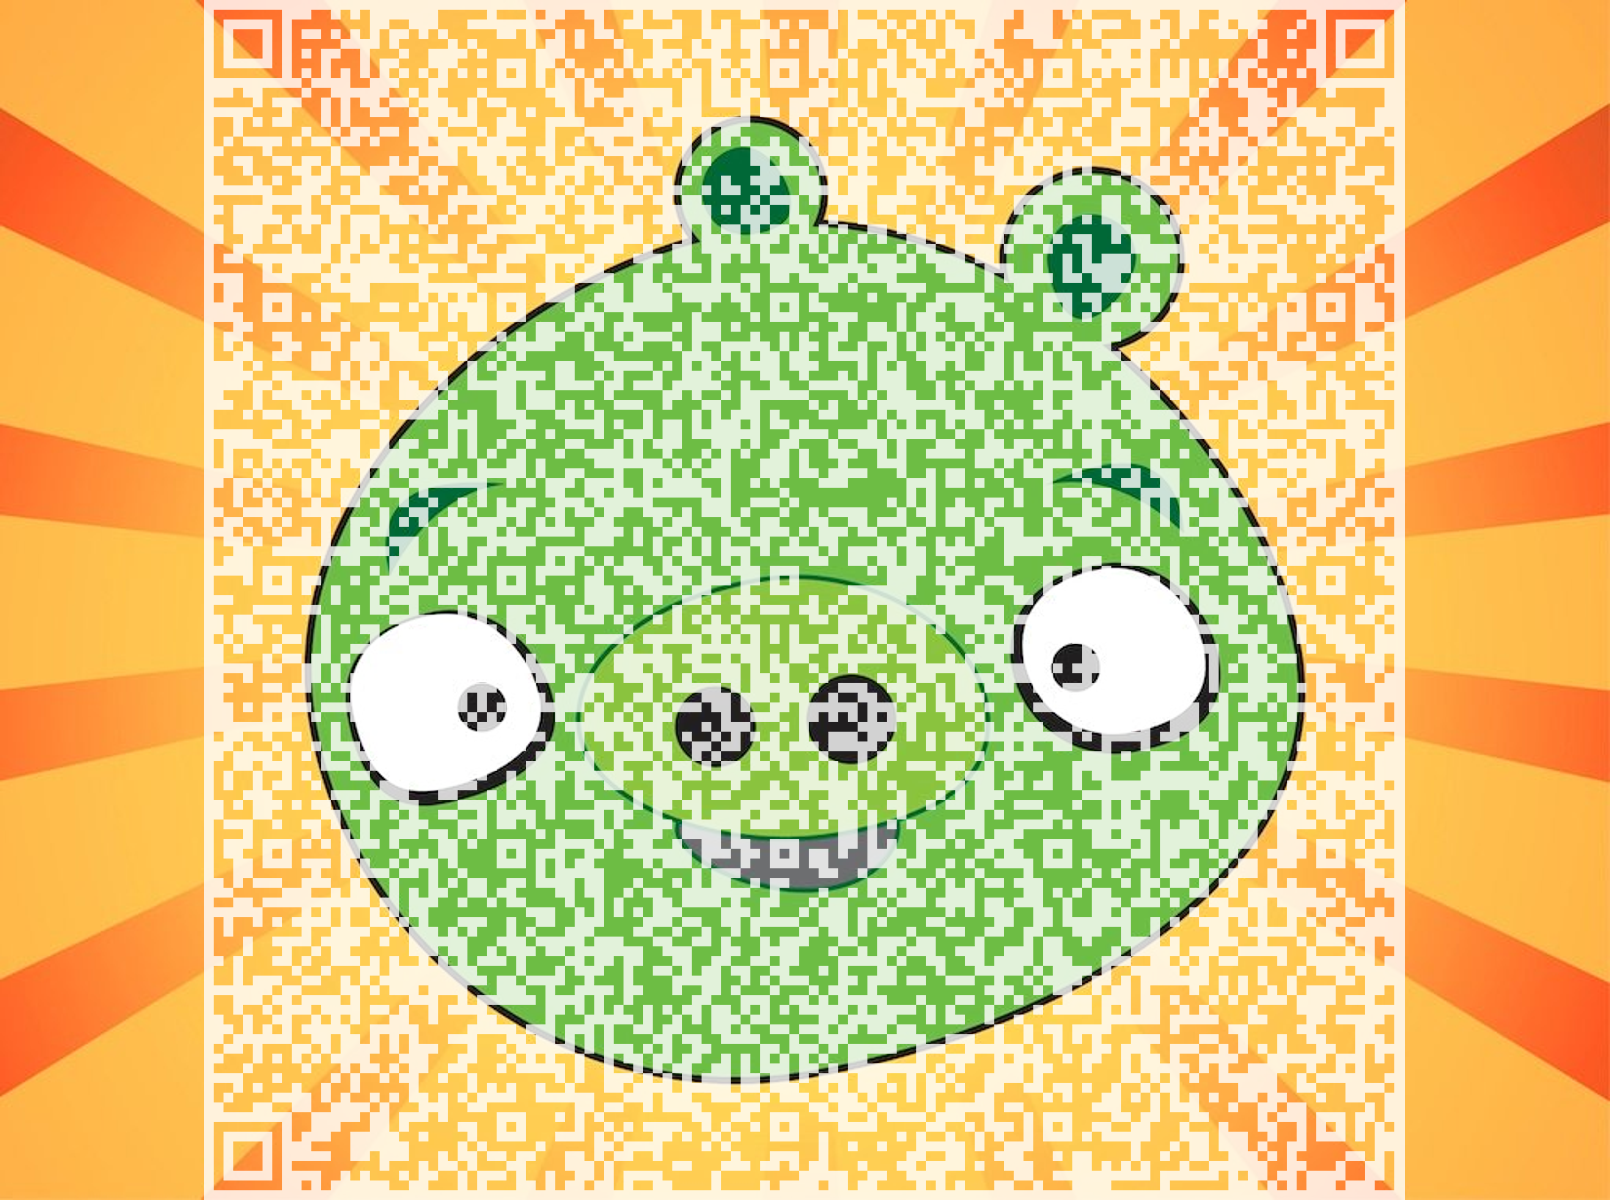
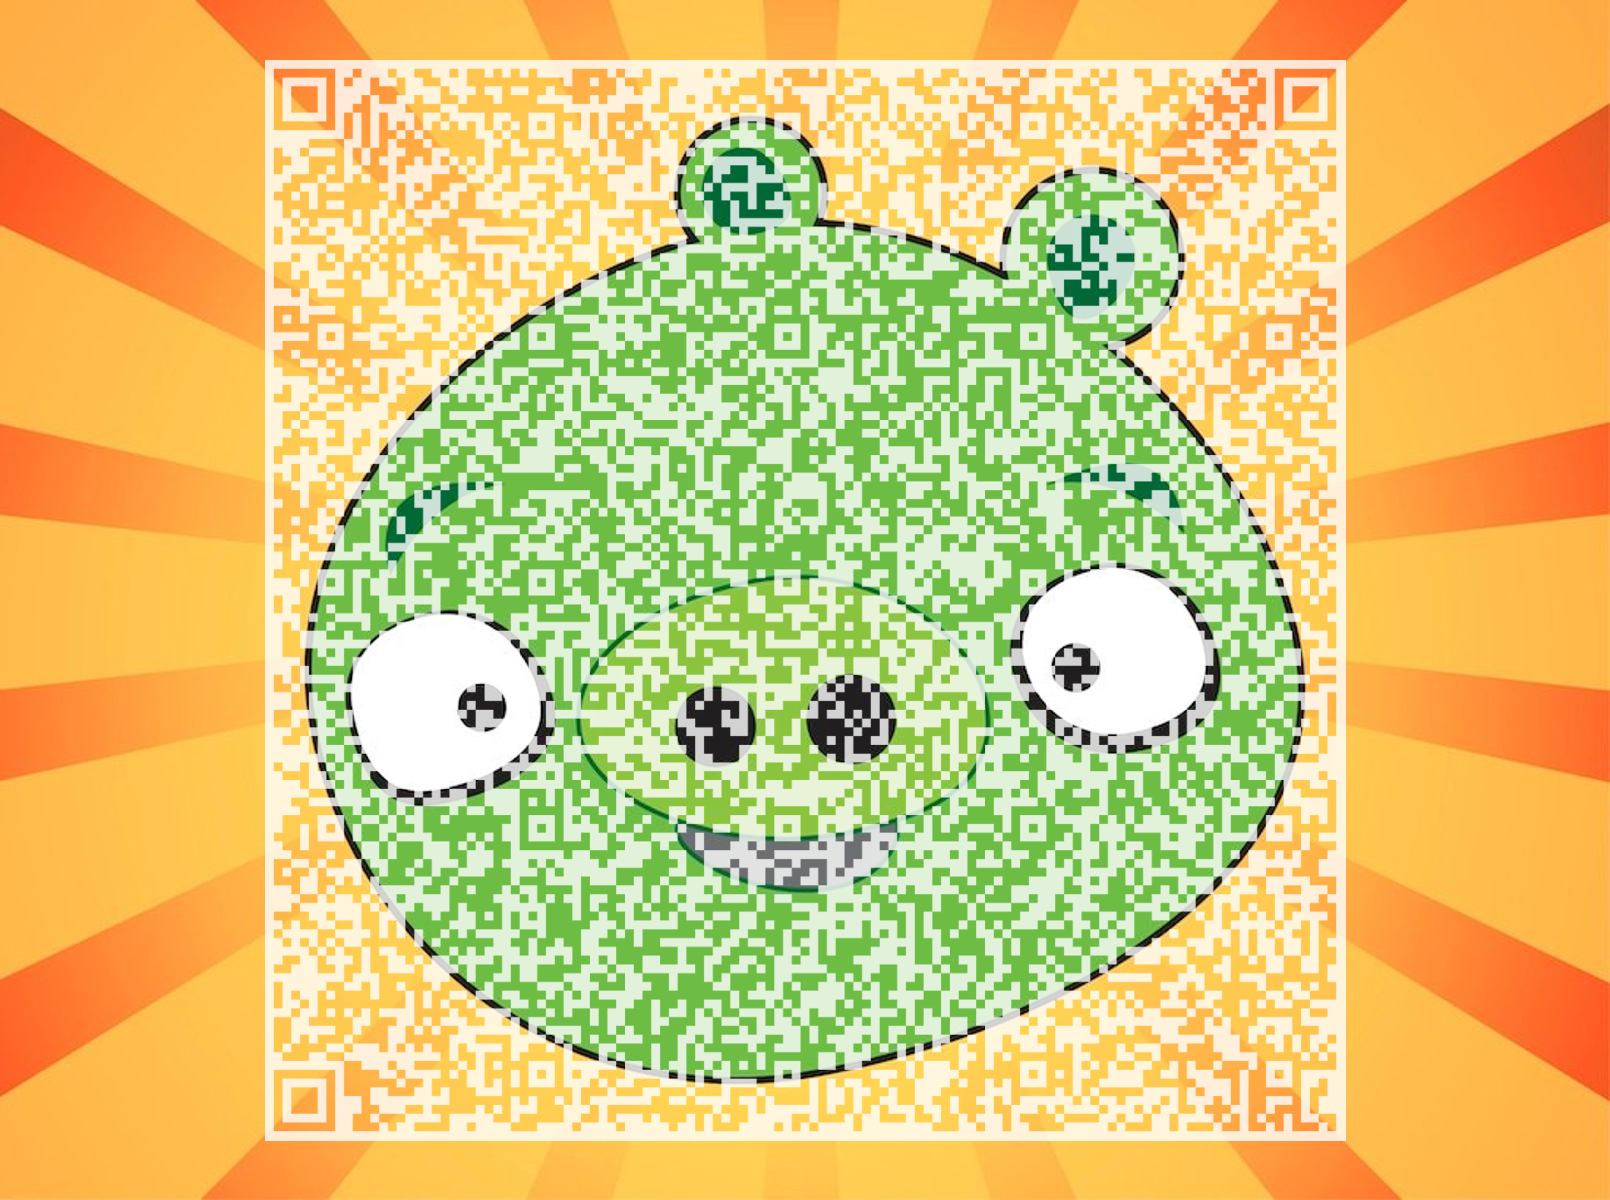
add --scale option for qrcode

diff --git a/passfun.py b/passfun.py
@@ -25,7 +25,6 @@ class EUDCC:
     self.data=None
     self.img = None
     self.mask1 = None
-    self.mask2 = None
     self.mask3 = None
     if inf:
       self.ReadImage(inf)
@@ -48,40 +47,36 @@ class EUDCC:
     im = Image.open(io.BytesIO(ib))
     self.Decode(im)
     
-  def NewQRCode(self):
+  def NewQRCode(self, scale=100):
     qr = qrcode.QRCode(error_correction=qrcode.constants.ERROR_CORRECT_H, border=1)
     qr.add_data(self.data)
     qr.make(fit=True)
     im = qr.make_image(back_color="transparent")
     # FIXME :  bug from PIL ??? erroneous width without convert
-    self.img = maxImage(im.convert("RGBA"))
-
+    im = maxImage(im.convert("RGBA"))
+    si = (int(im.size[0]*scale/100), int(im.size[1]*scale/100))
+    self.img = im.resize(si)
+    
   def Debug(self):
     self.img.save("dbug-qrcode.png")
     self.mask1.save("dbug-mask1.png")
-    self.mask2.save("dbug-mask2.png")
     self.mask3.save("dbug-mask3.png")
     
   # compute masks with size (x,y) and qrcode at pos% from left
   # mask1 is only with qrcode
-  # mask2 is mask1 + border
   # mask3 is fade mask
   def SetMasks(self, x, y, pos=0, trans=0):
     fg=(0,0,0)
     fa=int(trans*255/100)
     im = Image.new("RGBA",(x,y))
     xs = int((x-self.img.width)/100*pos)
-    im.paste(self.img,(xs,0))
+    ys = int((y-self.img.height)/2)
+    im.paste(self.img,(xs,ys))
     self.mask1=im.copy()
-
-    dr = ImageDraw.Draw(im)
-    dr.rectangle([0,0,xs,y], fill=fg)
-    dr.rectangle([self.img.width+xs,0,x,y], fill=fg)
-    self.mask2=im.copy()
 
     self.mask3=self.mask1.copy().convert("L")
     dr = ImageDraw.Draw(self.mask3)
-    dr.rectangle([xs,0,xs+self.img.width,y], fill=fa)
+    dr.rectangle([xs,ys,xs+self.img.width,ys+self.img.height], fill=fa)
     
 class DstImage:
   def __init__(self, inf=None):
@@ -121,6 +116,7 @@ def main():
   apar.add_argument("inputfile", help="The original qrcode")
   apar.add_argument("backgroundfile", help="Background image, can start with 'http'")
   apar.add_argument("outputfile", help="The new qrcode")
+  apar.add_argument("--scale", const=100, default=100, nargs='?', type=int, help="Scale of the target qrcode in percent, default=100")
   apar.add_argument("--pos", const=50, default=50, nargs='?', type=int, help="Generated qrcode horizontal position, 0=left, 100=right")
   apar.add_argument("--trans", type=int, const=80, default=80, nargs='?', help="Background transparency, 0=white, 100=original image")
   apar.add_argument("--test", default=False, nargs='?', const=True, help="Download random test data from dgc-testdata instead of inputfile")
@@ -132,7 +128,7 @@ def main():
     cert.TestData()
   else:
     cert.ReadImage(args.inputfile)
-  cert.NewQRCode()
+  cert.NewQRCode(scale=args.scale)
   
   bimg = DstImage(args.backgroundfile)
   if bimg.img.width < cert.img.width:

diff --git a/demo.py b/demo.py
@@ -22,5 +22,5 @@ test_data=[
 i=0
 for u in test_data:
   i+=1
-  sp.run(["./passfun.py", "null.png", u, "%s.png"%i, "--pos", "50", "--trans", "80", "--test"])
+  sp.run(["./passfun.py", "null.png", u, "%s.png"%i, "--scale", "90", "--pos", "50", "--trans", "85", "--test"])
 
